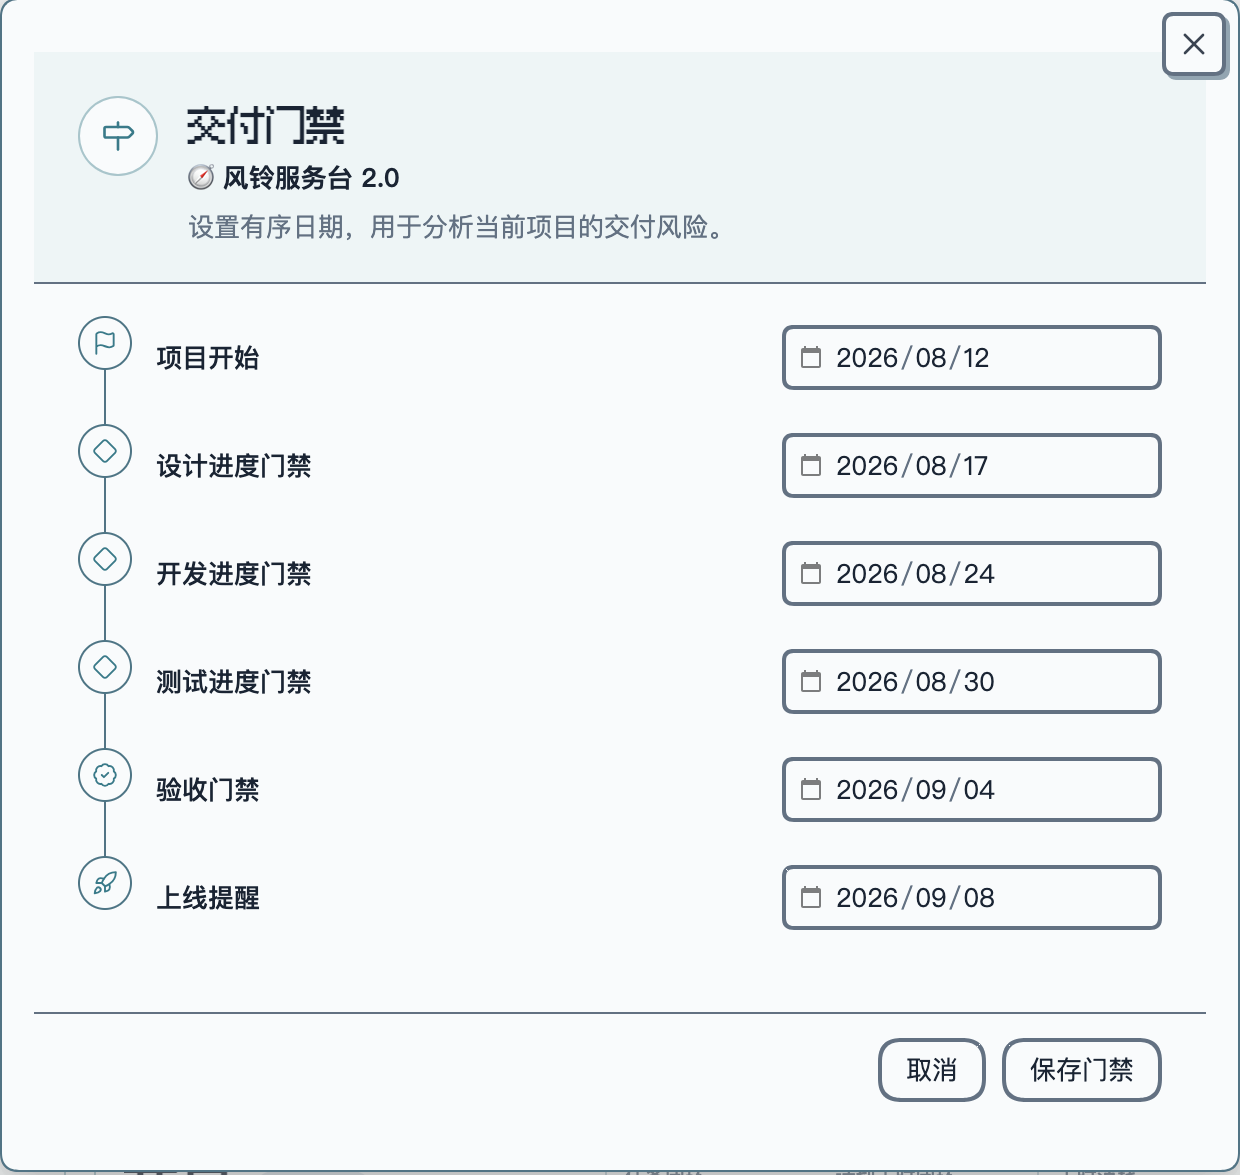
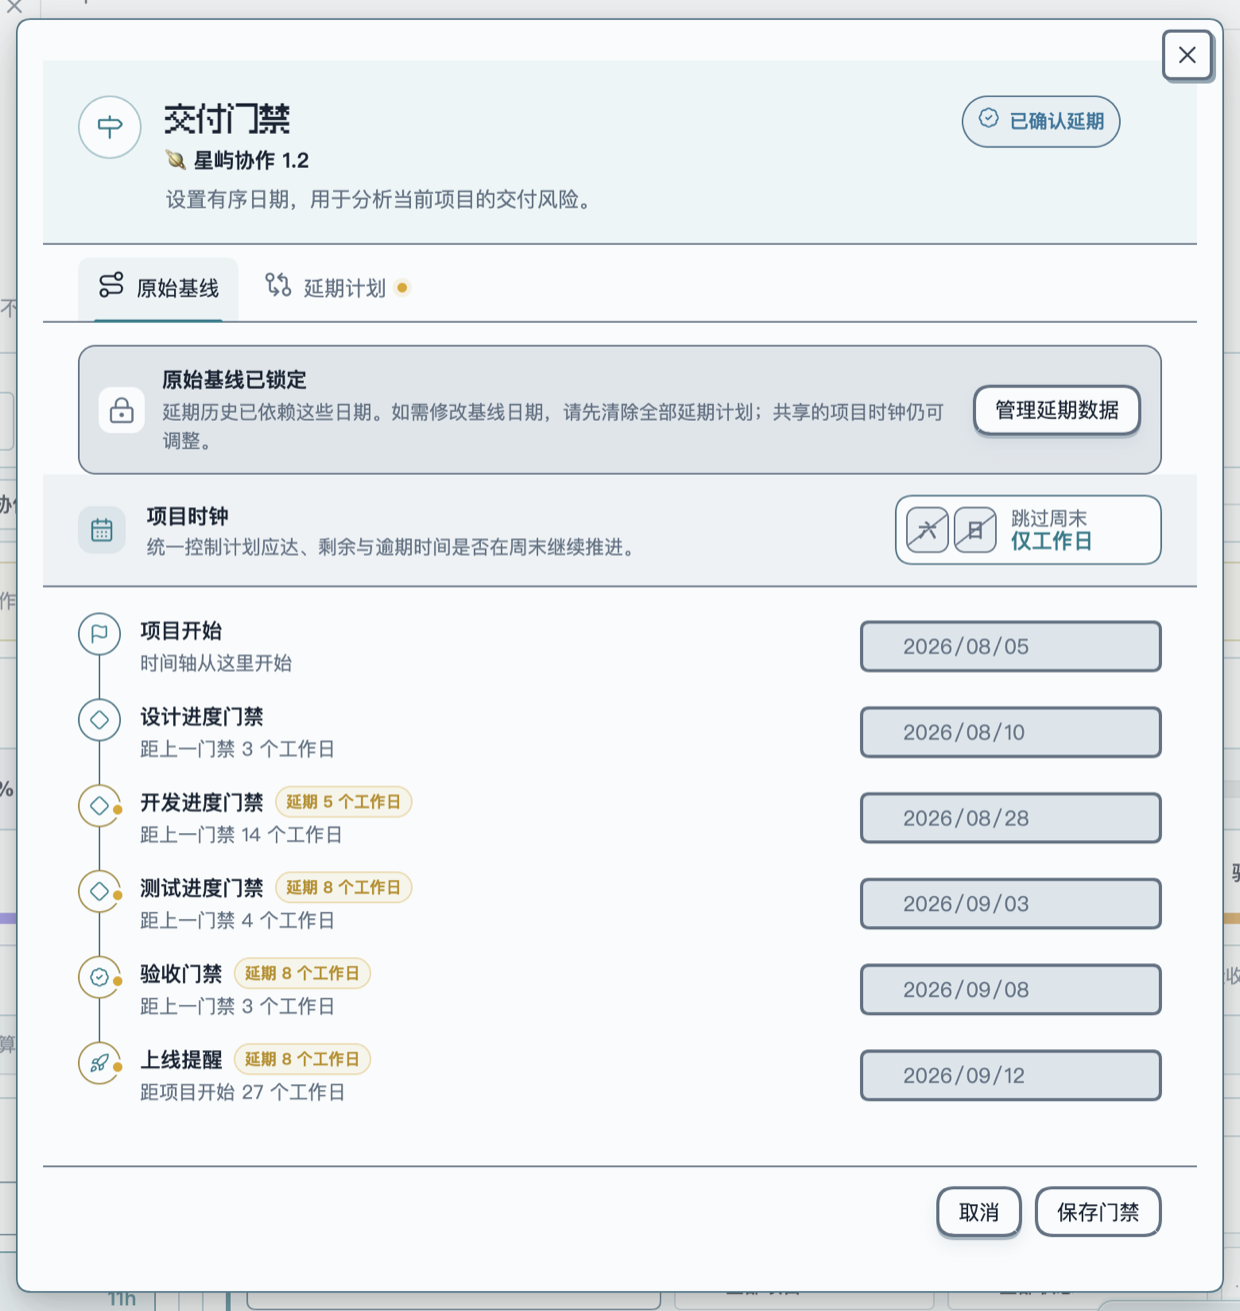
docs(readme): 补充延期计划双语说明
更新中英文交付门禁文档，说明项目时钟、原始基线、延期评估与延期动态，并替换对应界面截图。

Changed region(s): [[0.0613, 0.0613, 0.95, 0.9498], [0.0, 0.0, 1.0, 1.0], [0.7661, 0.0613, 0.8887, 0.1226]]

diff --git a/README.md b/README.md
@@ -382,20 +382,47 @@ Selecting an exception opens the Project Manager task editor above the current m
 
 ### 5. Delivery gates: use planned checkpoints to detect schedule risk
 
-#### Set stage gates and a project-level launch reminder
+#### Set the project clock and gates on the original baseline
 
-Each project can have its own delivery schedule:
+Each project's delivery-gate editor has an **Original baseline** tab and a **Delay plan** tab. The original baseline preserves the delivery schedule that was first agreed for the project:
 
 - project start date;
 - one gate date for every business stage;
 - acceptance gate date;
 - final launch reminder date.
 
-![Focused PM Insights project delivery-gate modal with ordered project start, design, development, testing, acceptance, and launch dates](docs/assets/pm-insights-gate-settings-focused.png)
+![Focused view of the redesigned PM Insights Original baseline tab with a locked-baseline notice, project clock, stage gates, delay markers, and launch reminder](docs/assets/pm-insights-gate-settings-focused.png)
 
-*Open gate settings from the calendar button in a selected project chip. Every project keeps an independent schedule, and date order is validated before saving.*
+*The Original baseline keeps the first agreed dates intact. Lightweight markers beside affected nodes describe the active delay without changing the date fields.*
 
-Gate risk compares actual completion with the expected percentage for the current calendar date. When work has started early or several stages are progressing in parallel, the timeline shows **Ahead** or **Cross-stage** instead of treating that movement as a failure.
+The **Project clock** decides whether time advances through weekends. With **Skip weekends** enabled, expected progress, remaining time, overdue time, delay values, and downstream forecasts all use workdays. Disable it to use calendar days. Schedules created before this option was introduced keep their previous calendar-day behavior until the user explicitly changes the rule.
+
+Once delay history exists, the original dates are locked so later edits cannot invalidate saved assessments. To create a different original plan, first use **Manage delay data** to clear every delay plan. The shared project clock remains adjustable while the baseline is locked.
+
+#### Evaluate and confirm a new delivery path with delay plans
+
+The **Delay plan** stays separate from the original baseline. It can express delivery risk, later forecast dates, and the delay assigned to each stage without rewriting the original plan.
+
+![Focused PM Insights Delay plan tab comparing baseline, forecast, and actual dates while showing the forecast workday delay for each stage](docs/assets/pm-insights-gate-delay-focused.png)
+
+*A confirmed plan places baseline, forecast, and actual outcomes beside each node. The summary at the top reports the final launch delay at a glance.*
+
+During a delay assessment, you can:
+
+- choose a forecast date or enter the number of workdays or calendar days to delay; both inputs stay synchronized;
+- use the minus and plus controls to adjust a node one day at a time and cascade the change through later gates using the project clock;
+- add an adjustment reason and select **Save assessment** before confirming it from the corresponding activity entry, or confirm the current delay plan immediately without a review step;
+- keep only one pending assessment at a time; another assessment can start after the current one is confirmed or withdrawn;
+- preserve every revision, including reducing a ten-day delay to five days. Withdrawing an item marks the original record instead of creating another activity entry;
+- settle forecasts automatically from actual gate progress. If a five-day delay was forecast but the gate passes three days late, the recovered two days appear without manual input.
+
+An unsaved assessment can be cancelled to return to the previous plan, with confirmation before edited input is discarded. Delay history also preserves gate passes, reopenings, date corrections, and launch records so the current plan remains explainable.
+
+![Focused PM Insights Delay activity section with the active confirmed delay expanded into stage changes and confirmation details, followed by compact withdrawn assessments](docs/assets/pm-insights-gate-delay-activity-focused.png)
+
+*Delay activity keeps the active item, stage-date changes, change sources, and confirmation time in one record. Withdrawn items remain as compact history instead of generating separate withdrawal entries.*
+
+Open delivery gates from the calendar button in a selected project chip. Every project keeps an independent schedule, and date order is validated before saving. Gate risk compares actual completion with the expected percentage for today using the current project clock. When work has started early or several stages are progressing in parallel, the timeline shows **Ahead** or **Cross-stage** instead of treating that movement as a failure.
 
 A stage gate evaluates its own stage. Acceptance additionally considers tasks that block acceptance. The final launch reminder summarizes the project across all stages and acceptance; it does not depend on a single preceding stage or repeat every task already listed under a stage gate.
 
@@ -425,6 +452,7 @@ The **Delivery gate risk** modal places project rhythm and supporting evidence i
 
 - switch among selected projects and inspect each schedule;
 - compare actual completion with expected completion;
+- when a project has a confirmed delay, compare the original plan, delayed date, forecast delay, and remaining time directly on each stage timeline;
 - distinguish not started, on track, attention, high risk, overdue, passed, skipped, ahead, and cross-stage states;
 - read specific reason chips such as overdue task, past gate, stage progress gap, unestimated subtask, unassigned, or blocking acceptance;
 - open a risk task in Project Manager;

diff --git a/README.zh-CN.md b/README.zh-CN.md
@@ -382,20 +382,47 @@ Project Manager 项目
 
 ### 5. 交付门禁：用计划节点识别排期风险
 
-#### 为阶段设置门禁，为项目设置上线提醒
+#### 在原始基线中设置项目时钟与门禁
 
-每个项目都可以拥有独立的交付排期：
+每个项目的交付门禁都分为“原始基线”和“延期计划”两个页签。“原始基线”保存项目最初确认的交付排期：
 
 - 项目开始日期
 - 每个业务阶段的门禁日期
 - 验收门禁日期
 - 最终上线提醒日期
 
-![聚焦展示 PM Insights 项目交付门禁设置窗口，按顺序配置项目开始、设计、开发、测试、验收和上线日期](docs/assets/pm-insights-gate-settings-focused.zh-CN.png)
+![聚焦展示新版 PM Insights 交付门禁原始基线页签，包括基线锁定提示、项目时钟、阶段门禁、延期标记和上线提醒](docs/assets/pm-insights-gate-settings-focused.zh-CN.png)
 
-*从已选项目标签旁的日历按钮进入设置；每个项目保存独立排期，日期顺序会在保存前进行校验。*
+*“原始基线”保留最初确认的日期；节点旁的轻量标记只说明当前延期影响，不会改写日期输入框。*
 
-门禁风险会将实际完成比例与当前日期下的计划应达比例进行对比，目前统一按照自然日计算。如果下一个阶段已经提前或并行推进，面板会明确显示“提前推进”或“跨阶段推进”，而不是简单将其判断为异常。
+“项目时钟”决定周末是否继续推进。选择“跳过周末”后，计划应达、剩余时间、逾期时间、延期天数和后续预计日期都会统一按工作日计算；关闭后则使用自然日。旧版已有排期会继续保持原来的自然日口径，直到用户主动切换。
+
+一旦产生延期历史，原始日期会被锁定，避免后续修改破坏已经保存的评估依据。如需重新制定原计划，需要先通过“管理延期数据”清理全部延期计划；共享的项目时钟仍然可以随时调整。
+
+#### 用延期计划评估并确认新的交付路径
+
+“延期计划”与原始基线相互隔离，可以在不修改原计划的前提下表达项目风险、预计延期日期和各阶段分别延期多少天。
+
+![聚焦展示 PM Insights 交付门禁延期计划页签，对比原始基线、延期预计和实际结果，并展示各阶段预计延期工作日](docs/assets/pm-insights-gate-delay-focused.zh-CN.png)
+
+*已确认的延期计划按节点并列展示原始基线、延期预计和实际结果；顶部汇总最终上线预计延期，便于快速判断整体影响。*
+
+发起一轮延期评估后，可以：
+
+- 直接选择新的预计日期，或填写延期多少工作日、自然日；两种输入会实时双向换算。
+- 使用减号和加号逐日调整当前节点，后续门禁会按项目时钟联动顺延。
+- 填写调整原因后先“保存延期评估”，再从对应的延期动态中确认；也可以不经过评估，直接确认当前延期计划。
+- 同一时间只保留一份待确认评估；确认或撤销后才能创建下一轮，避免延期动态堆积多个待处理方案。
+- 保留每次修改记录，包括把“延期 10 天”缩短为“延期 5 天”等变化。撤销事项会直接标注在原记录中，不会额外生成一条动态。
+- 在门禁实际通过后自动结算延期。例如预计延期 5 天、实际只延期 3 天时，系统会自动体现追回的 2 天，不需要手动填写。
+
+未保存的新一轮评估可以随时取消并返回上一份计划；存在编辑内容时，界面会先确认是否放弃。延期历史还会保留门禁通过、重新打开、日期校正与上线登记等事件，使当前计划可以追溯。
+
+![聚焦展示 PM Insights 延期动态，展开当前已确认延期的阶段调整与确认信息，并保留已撤销评估记录](docs/assets/pm-insights-gate-delay-activity-focused.zh-CN.png)
+
+*“延期动态”将当前生效事项、阶段日期变化、调整来源和确认时间收纳在同一条记录中；已撤销事项保留为紧凑历史，不会重复生成撤销动态。*
+
+从已选项目标签旁的日历按钮进入交付门禁；每个项目保存独立排期，日期顺序会在保存前进行校验。门禁风险会将实际完成比例与当前日期下的计划应达比例进行对比，并统一使用当前项目时钟。如果下一个阶段已经提前或并行推进，面板会明确显示“提前推进”或“跨阶段推进”，而不是简单将其判断为异常。
 
 阶段门禁只关注自身阶段；验收阶段会额外关注正在阻塞验收的任务。上线提醒则从整个项目出发，综合所有阶段与验收状态形成收口概览，不依赖某一个前置阶段，也不会重复罗列已经在各阶段门禁中出现过的任务。
 
@@ -425,6 +452,7 @@ Project Manager 项目
 
 - 在多个选中项目之间切换，查看各自的门禁状态。
 - 对比实际完成比例与计划应达比例。
+- 项目存在已确认延期时，直接在阶段时间线上对照原计划、延期日期、预计延期天数与剩余时间。
 - 区分未开始、正常、需关注、高风险、已逾期、已通过、已跳过、提前推进和跨阶段推进。
 - 通过标签直接看到“任务逾期”“晚于门禁”“阶段进度落后”“子任务未估时”“未分配”或“阻塞验收”等具体原因。
 - 点击风险任务，在 Project Manager 中继续处理。
